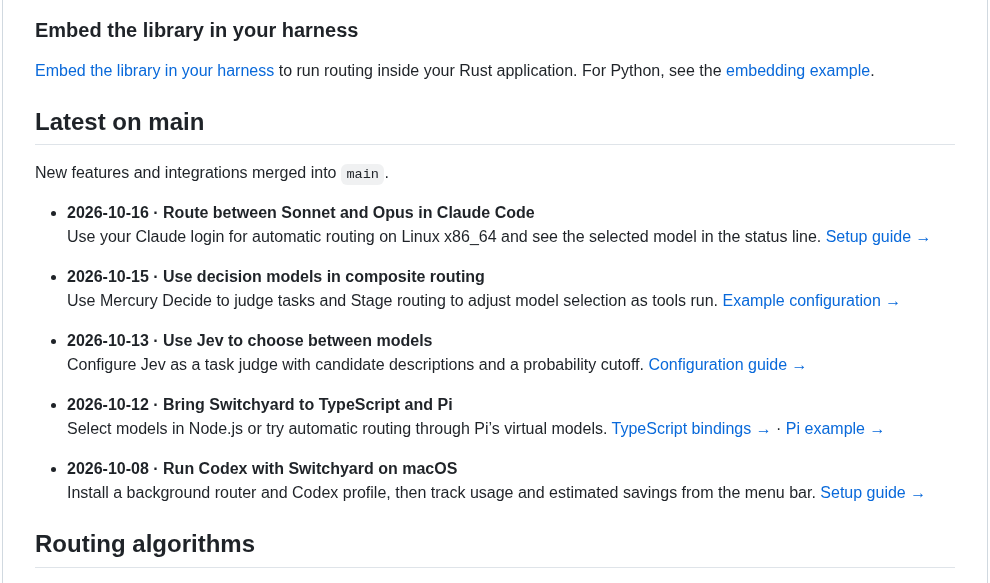
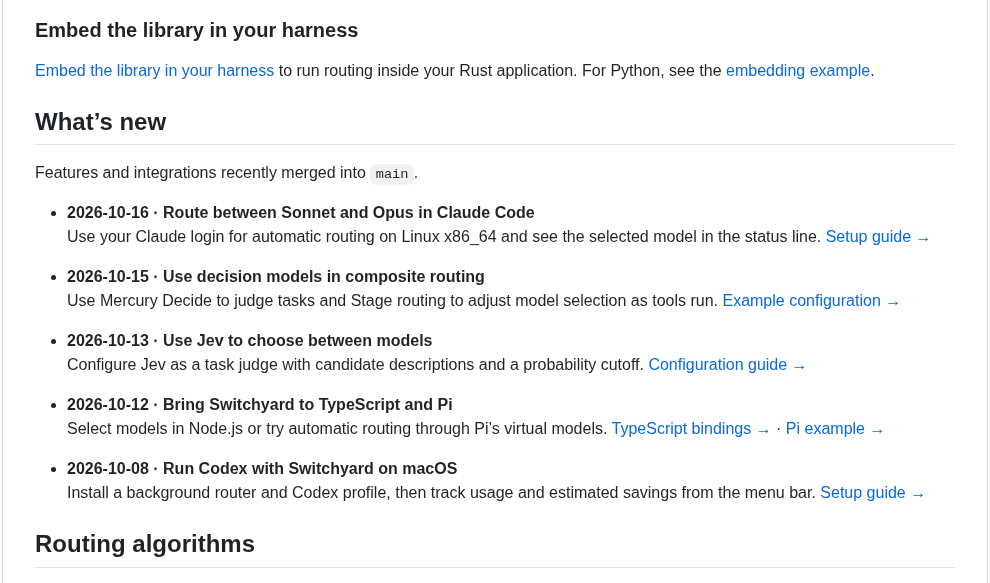
docs(readme): refresh what's new previews

Changed region(s): [[0.0303, 0.2779, 0.4242, 0.3087], [0.0303, 0.1852, 0.2121, 0.247]]

diff --git a/README.md b/README.md
@@ -11,7 +11,7 @@ Use Switchyard through a gateway integration, try it with a local proxy, or embe
 <p align="center">
   <a href="docs/getting_started.md">Quickstart</a> &emsp;·&emsp;
   <a href="https://nvidia-nemo.github.io/Switchyard/">Documentation</a> &emsp;·&emsp;
-  <a href="#latest-on-main">Latest on main</a> &emsp;·&emsp;
+  <a href="#whats-new">What’s new</a> &emsp;·&emsp;
   <a href="https://github.com/NVIDIA-NeMo/Switchyard/issues/1026">Roadmap</a> &emsp;·&emsp;
   <a href="https://github.com/NVIDIA-NeMo/Switchyard/releases">Releases</a> &emsp;·&emsp;
   <a href="CONTRIBUTING.md">Contributing</a>
@@ -53,9 +53,9 @@ Agent-specific guides are available for [pi](docs/integrations/pi.md) and
 
 [Embed the library in your harness](docs/getting_started.md#library-path) to run routing inside your Rust application. For Python, see the [embedding example](examples/libsy.py).
 
-## Latest on main
+## What’s new
 
-New features and integrations merged into `main`.
+Features and integrations recently merged into `main`.
 
 - **2026-10-16 · Route between Sonnet and Opus in Claude Code**\
   Use your Claude login for automatic routing on Linux x86_64 and see the selected model in the status line. [Setup guide →](examples/claude/README.md)
